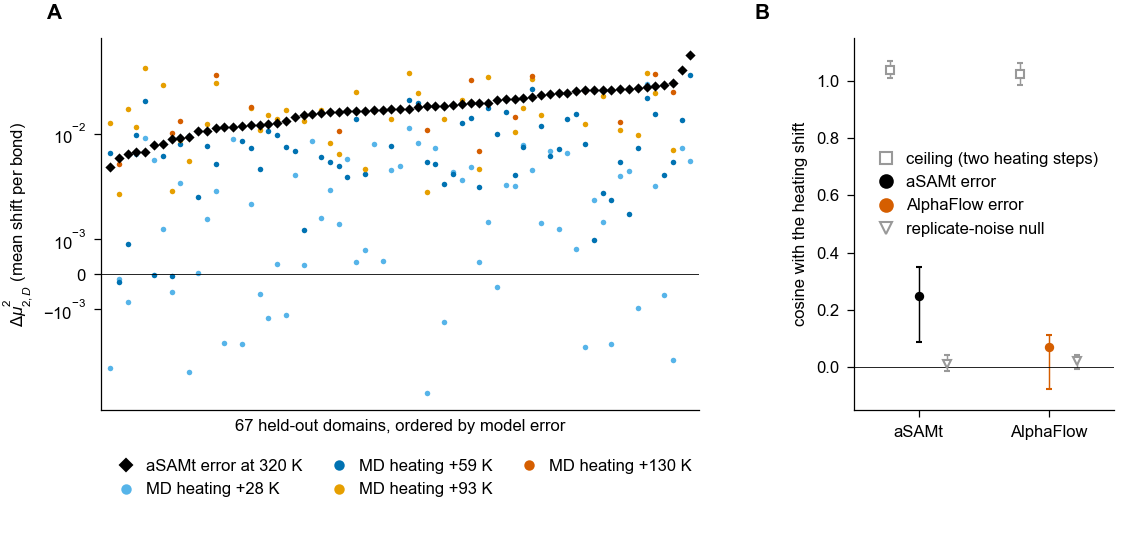
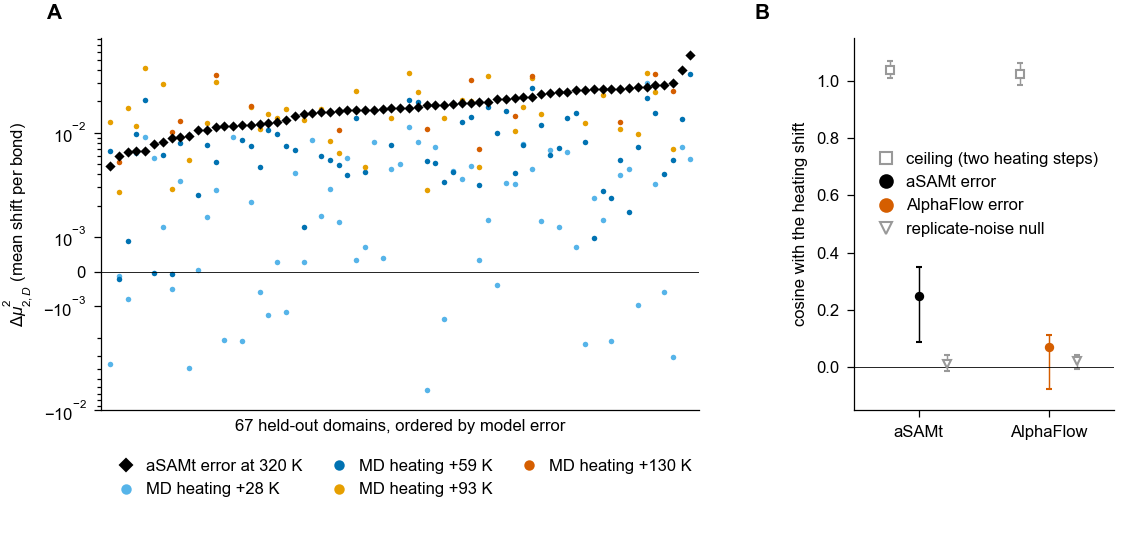
Figs 3, 4, 5, 7: markers per heating step, a key for the κ² bar, negative ticks, a separator (values unchanged); S1-S3 Table scripts: one timestamp style, 'withdrawn' label, column widths and frozen headers, numeric S2 medians, signed −0.000; PROVENANCE, MANIFEST

diff --git a/code/make_s1.py b/code/make_s1.py
@@ -17,6 +17,14 @@ FLAG = {'round36_p1_checklist_2026-10-20': 'Flagged: stamped 12:57:26 inside the
         'round36_sec6_2026-10-20': 'Reached Drive at 17:34:46; the 128-start alignment step of the static comparison began at 17:33:43 (machine clock) and branch-and-bound at 17:55:07; the predictions concern the certification.'}
 INFILE = {'round34': '2026-10-18 (date only, KST; written locally before running, appended unchanged)', 'round35': '2026-10-19 (date only, KST; before running)',
           'round37': '2026-10-19 (date only, KST; before running)', 'round36': '2026-10-19 (date only, KST; third version)'}
+def _ts(v):
+    """Display only (sheet A): one timestamp style, 'YYYY-MM-DD HH:MM:SS', with milliseconds where Drive gives them; the headers give the time zone.
+    Drive times come as '2026-10-17T12:47:55.465000+00:00' or '2026-10-17T22:27:15.130Z' (millisecond resolution, so the microseconds end in 000),
+    times before paths in the edit, removal and result-file columns as '2026-10-22T07:44:04', and some times inside entries end in ' UTC'. Any other string is left as it is."""
+    if not isinstance(v, str): return v
+    v = re.sub(r'\b(\d{4}-\d\d-\d\d)T(\d\d:\d\d:\d\d)\.(\d{3})(?:000)?(?:\+00:00|Z)', r'\1 \2.\3', v)
+    v = re.sub(r'\b(\d{4}-\d\d-\d\d)T(\d\d:\d\d:\d\d)(?![.\d+Z])', r'\1 \2', v)
+    return re.sub(r'^(\d{4}-\d\d-\d\d \d\d:\d\d:\d\d) UTC$', r'\1', v)
 def entries():
     t = pd.read_csv(f'{R}/results/_registration_evidence_2026-10-26/entries_timeline.tsv', sep='\t').fillna('')
     t = t[~t.entry.isin(['written', 'note'])].copy()
@@ -25,6 +33,8 @@ def entries():
     t['in_file_time'] = [INFILE.get(e, v if v else '— (record begun 2026-10-17 12:47:55)') for e, v in zip(t.entry, t.in_file_time)]
     t = t.rename(columns={'entry': 'Entry', 'first_seen_utc': 'First seen on Drive (UTC)', 'n_versions': 'Versions', 'change_times_utc': 'Later changes (UTC)',
                           'in_place_modified_paths': 'Values edited in place', 'removed_paths': 'Items removed', 'result_files_created_before_first_seen': 'Result files created earlier (Drive time)', 'in_file_time': 'Time written inside the entry (UTC; date-only values in KST)'})
+    for col in ('Time written inside the entry (UTC; date-only values in KST)', 'First seen on Drive (UTC)', 'Later changes (UTC)', 'Values edited in place', 'Items removed', 'Result files created earlier (Drive time)'):
+        t[col] = t[col].map(_ts)   # display only; values unchanged
     return t[['Entry', 'Time written inside the entry (UTC; date-only values in KST)', 'First seen on Drive (UTC)', 'Versions', 'Later changes (UTC)', 'Values edited in place', 'Items removed', 'Result files created earlier (Drive time)', 'Bears on this paper', 'Note']]
 ADDED = [  # file, written (UTC), analyses, what it fixed
  ('prereg_2026-10-28_addendum.json', None, 'r44_inv, r44_corr', 'Replicate- and frame-number audits (±10% criterion) and the decomposition of κ² into mean-shift and spread terms; alternative correspondences (TM-align, sequence alignments).'),
@@ -51,7 +61,7 @@ def added():
         A = json.load(open(f'{R}/results/{f}')); w = A.get('written') or next((v.get('written') for v in A.values() if isinstance(v, dict) and v.get('written')), '')
         rows.append({'File (date in KST)': f, 'Written (UTC, inside the file)': w, 'Analyses': an, 'What it fixed': what})
     return pd.DataFrame(rows)
-L_DC, L_SC, L_D, L_BD = 'decision criterion', 'sanity check', 'descriptive', 'by definition'
+L_DC, L_SC, L_D, L_BD, L_WD = 'decision criterion', 'sanity check', 'descriptive', 'by definition', 'withdrawn'
 PRED = [  # record, analysis, prediction, label, outcome, where reported
  ('round17_chaining (18 Oct 00:20 UTC)', 'Chaining test, 150 two-domain chains', '1 − TM-score normalized by the shorter chain violates the triangle inequality in > 80% of part–whole triples; D_TM with fixed d₀ and D_TM/√L̄ near 0.', L_DC, 'Held: 100% vs 0% and 0%.', 'R2, Fig 2B'),
  ('round17_chaining', 'Chaining test', 'Average linkage merges different folds under 1 − TM-score (shorter chain) but mostly not under D_TM/√L̄; single linkage merges under both.', L_DC, 'Held: average linkage 100% vs 15% [10%, 21%]; single linkage merged under both (100% and 78%), as predicted.', 'R2, Fig 2B'),
@@ -105,7 +115,7 @@ PRED = [  # record, analysis, prediction, label, outcome, where reported
  ('round41', 'g2 compression of d (added after the E7 result)', 'Reading rule: the step carrying more than half of the log compression names the mechanism (rotation per pair, saturation beyond 120°, or shifts of the correspondence).', L_D, 'Shifts of the correspondence 0.72 [0.68, 0.75]; saturation 0.29; rotation −0.015.', 'R5'),
  ('round41', 'g6 synthetic sequences', 'No violations for 1-Lipschitz gap costs (i)–(iii) (0 of 3,000 inequalities); violations expected for the controls (iv) 2|a| and (v) DTW, without refuting the lemma if absent.', L_DC, 'Held for (i)–(iii); the controls also had no violations under random edits.', 'S1 Fig (adversarial version)'),
  ('round41 g6_adv (21 Oct 09:25 UTC; added after g6)', 'g6 adversarial triples', '(i)–(iii) no violations; (iv) violations on generator A; (v) violations on generator B.', L_DC, 'Held: 0; 21.1% and 22.7%; 33.0% (65 undecided equalities in (iii) A).', 'R1, S1 Fig'),
- ('round42 (21 Oct 09:27 UTC)', 'Hinge-type test', 'Withdrawn before running (premise contradicted by a decomposition of explanatory variables).', '—', 'Withdrawn.', 'not discussed'),
+ ('round42 (21 Oct 09:27 UTC)', 'Hinge-type test', 'Withdrawn before running (premise contradicted by a decomposition of explanatory variables).', L_WD, 'Withdrawn.', 'not discussed'),
  ('round43 (22 Oct 08:54 UTC)', 'Post hoc sensitivities s1, s3, s4', 's1: if a cell changes regime under length matching or Kendall τ < 0.9, show both versions; s3: if C-2 and its intersection gate hold for all four network models, C-2 is not tied to the parameters; s4: interval of secondary 1, verdict unchanged.', L_D, 's1: no regime changed in the 13 cells with size-matched units, τ = 0.91 over 12 (matched version in S2 Table); s3: effect in all four (C-2 0.18–0.19); s4: [61.5%, 83.3%], includes 70%.', 'R4, R6, R8, S2 Table'),
  ('addendum (28 Oct 04:47 UTC)', 'r44_inv', 'Reduced/original ratio of superfamily medians in [0.9, 1.1] with 95% interval including 1, at +59 and +93 K, for 3 vs 5 replicates and 50 vs 100 frames.', L_DC, 'Replicate axis not met (+93 K 0.87 [0.45, 1.22]); frame axis met.', 'R3, Table 2'),
  ('addendum', 'r44_corr', 'P1: TM-align contains π̄ pairs more than sequence alignments; P2: TM-align C-1, C-2 lower bounds > 0; P3: sequence alignments lower bounds > 0 with C-1 below π̄.', L_DC, 'P1 held; P2 held; P3 not held (C-1 below π̄ held).', 'R8, Table 3'),
@@ -203,7 +213,7 @@ def build():
     notes = pd.DataFrame({'Note': [
         'Sheet A lists every entry of the first time-stamped record (prereg_2026-10-17.json: 64 entries after two header fields, the time the record was begun, 17 October 2026 12:47:55 UTC, and a note; 101 retained Drive versions and 46 snapshot copies) with the time written inside it, the time it first appeared on Drive, later changes, in-place edits, removals, result files that already existed when it appeared, and the two flagged cases. A result file listed as existing earlier belongs to a different analysis unless the Note says otherwise. Entries of an earlier exploratory stage (17–18 October) that this paper does not use are marked; their predictions and outcomes are in the deposited record.',
         'Sheet B lists the twelve records added from 28 October 2026 onward and their five corrections; file names carry the date in Korea Standard Time (UTC+9), times inside the files are UTC.',
-        'Sheet C lists the pre-specified predictions and decision rules of the analyses in this paper and of analyses specified in the records but not discussed in the text, with their outcomes. Labels: decision criterion (decides a stated reading), sanity check (expected to hold if the computation is correct), descriptive (reported without a decision), by definition (holds by construction).',
+        'Sheet C lists the pre-specified predictions and decision rules of the analyses in this paper and of analyses specified in the records but not discussed in the text, with their outcomes. Labels: decision criterion (decides a stated reading), sanity check (expected to hold if the computation is correct), descriptive (reported without a decision), by definition (holds by construction), withdrawn (the one test withdrawn before it was run).',
         'Sheet D classifies every analysis in the paper as pre-specified (in a record written before its result), added after a result (specified in a record after the result it follows and before it was computed) or in no record. Record times are the earliest Drive time of the entry or sub-entry (a retained version or a snapshot copy), unless marked (stamp), the time written inside it; for the records added from 28 October, the time written inside the file.',
         'Most entries hold their predictions and decision rules as text. The round36 entry (18 October 2026, 18:58:51 UTC) names a pre-specification document as the source of its sections 0–8 and holds the text of sections 7b and 7c; the record holds the full text of sections 0 and 3 from 19 October, 14:56:51. Sections 7d–7h of the document are amendments made from 19 October onward; each was entered in the record when it was made (sheet A). For sections 1, 1b and 7, the earliest evidence on Drive is the checksum of the analysis script that implements their decision rules (r38_b6.py, r38_p3.py, r38_p1.py), entered before the decision statistics were computed (for r38_p1.py, its pair-counting and mean-point steps had started up to 2.5 minutes earlier; see the Note of round36_p1_code); the scripts contain the rules and are deposited with matching checksums, and their Drive copies were last modified before those entries. For section 2 (natural insertion–deletion cell), the entry round36_r10a (20 October, 16:55:13 on Drive; stamp inside 16:43:20) holds the decision criteria of predictions 2 and 3 as text and the script checksum, before the run (19:16). The document is deposited too, but its earlier versions are dated only by local file times.',
         "In sheets C and D, R1–R8 are the eight Results sections in order (R1, Framed chains and an edit-distance metric across lengths; R2, TM-align's objective as an edit-distance metric; R3, Energy statistics for ensembles and their calibration; R4, Ensembles of different sequences on the same statistic; R5, Bond-level comparison once correspondence and rotation are fixed; R6, Errors of a temperature-conditioned generative model; R7, Thermophilic and mesophilic homologs at equal temperature; R8, Sequence identity and shared-bond fluctuation profiles). Labels such as R3′, R10a′, E1–E7 or P1 in the analysis names are the names used in the records, not section numbers.",

diff --git a/code/make_figs.py b/code/make_figs.py
@@ -23,6 +23,7 @@ def axin(fig, l, b, w, h):
 OI = dict(black='#000000', orange='#E69F00', sky='#56B4E9', green='#009E73', yellow='#F0E442', blue='#0072B2', red='#D55E00', purple='#CC79A7', grey='#999999')
 STEP = {'348': '+28 K', '379': '+59 K', '413': '+93 K', '450': '+130 K'}
 SCOL = {'348': OI['sky'], '379': OI['blue'], '413': OI['orange'], '450': OI['red']}
+SMK = {'348': 'o', '379': 's', '413': '^', '450': 'D'}   # marker per heating step (Fig 3B, 3C): +93 K and +130 K differ in shape as well as colour
 
 def panel(ax, s, x=-0.14, y=1.04):
     ax.text(x, y, s, transform=ax.transAxes, fontsize=10, fontweight='bold', va='bottom', ha='left')
@@ -104,7 +105,7 @@ def fig3():
             if c and c.get('D') and c['D'].get('D2') is not None: recs[tt].append((d['ne'], c['D']['D2']))
     for tt in T:
         a = np.array(recs[tt], float); n, y = a[:, 0], a[:, 1]; pos = y > 0
-        ax.scatter(n[pos], y[pos], s=3, color=SCOL[tt], alpha=0.5, lw=0)
+        ax.scatter(n[pos], y[pos], s=7, marker=SMK[tt], color=SCOL[tt], alpha=0.7, lw=0)
         al = E1['steps'][tt]['irls']['alpha']; ga = E1['steps'][tt]['irls']['gamma']
         w = n ** (-ga); x = n ** al; cfit = (w * y * x).sum() / (w * x * x).sum(); fits[tt] = (al, ga, cfit, len(n), int((~pos).sum()))
         g = np.linspace(n.min(), n.max(), 50); ax.plot(g, cfit * g ** al, color=SCOL[tt], lw=1)
@@ -113,7 +114,7 @@ def fig3():
     ax = fig.add_subplot(gs[2]); panel(ax, 'C', x=-0.36, y=1.12); pw = {}
     for tt in T:
         rr = sorted([(int(r['n']), r['p_detect']) for r in E3['rows'] if r['window'] == 'half' and r['method'] == '나' and str(r['T']) == tt and str(r['n']).isdigit()])
-        pw[tt] = rr; ax.plot([a for a, _ in rr], [b for _, b in rr], 'o-', color=SCOL[tt], ms=3, label=STEP[tt])
+        pw[tt] = rr; ax.plot([a for a, _ in rr], [b for _, b in rr], '-', marker=SMK[tt], color=SCOL[tt], ms=3.5, label=STEP[tt])   # legend keys the markers of B too
     ax.set_xscale('log'); ax.set_xlabel('number of domains'); ax.set_ylabel('probability of detection'); ax.set_ylim(0, 1.03); ax.axhline(0.8, color=OI['grey'], lw=0.5, ls='--')
     ax.legend(frameon=False, loc='lower center', bbox_to_anchor=(0.5, 1.0), ncol=2, handlelength=1.5, columnspacing=1.0)
     return save(fig, 'Fig3'), dict(A=vals, R0=b, fits=fits, power=pw)
@@ -140,7 +141,8 @@ def fig4():
     h1, l1 = ax.get_legend_handles_labels(); h2, l2 = ax2.get_legend_handles_labels(); ax.legend(h1 + h2, l1 + l2, frameon=False, loc='upper center', bbox_to_anchor=(0.5, -0.19), handletextpad=0.2)
     # B: kappa per cell
     s1 = J('r43_sens.json')['s1']['cells']; order = [k for k in CELL_EN if k in s1]
-    ax = axin(fig, 5.1, 1.3, 2.3, 3.2); panel(ax, 'B', x=-0.86, y=1.0); y = np.arange(len(order))[::-1]; kap = {}
+    ax = axin(fig, 5.1, 1.3, 2.3, 3.2); panel(ax, 'B', x=-0.86, y=1.0); y = np.arange(len(order))[::-1].astype(float); kap = {}
+    y[order.index('7c AlphaFlow') + 1:] -= 0.8   # a free line under the AlphaFlow row for the labels of its κ² bar
     for yi, k in zip(y, order):
         e, lo, hi = ci(s1[k]['ratio']); kap[CELL_EN[k].replace('\n', ' ')] = (e, lo, hi)
         col = OI['red'] if 'AlphaFlow' in CELL_EN[k] else OI['blue'] if 'Homolog' in CELL_EN[k] or 'insertion' in CELL_EN[k] else OI['black']
@@ -148,11 +150,15 @@ def fig4():
     ax.set_yticks(y); ax.set_yticklabels([CELL_EN[k] for k in order], linespacing=0.95); ax.set_xscale('log'); ax.set_xlim(0.05, 3)
     ax.axvspan(0.5, 2, color=OI['yellow'], alpha=0.25, lw=0); ax.axvline(1, color='black', lw=0.6, ls='--')
     ax.text(0.06, y[0] + 0.9, 'near', fontsize=FS, color='#555555'); ax.text(0.95, y[0] + 0.9, 'crossing', fontsize=FS, color='#555555', ha='right'); ax.text(2.45, y[0] + 0.9, 'far', fontsize=FS, color='#555555', ha='center')
-    ax.set_xlabel(r'$\kappa = \sqrt{(C/\bar w)^2 - 1}$'); ax.set_ylim(-0.8, len(order) + 0.3)
+    ax.set_xlabel(r'$\kappa = \sqrt{(C/\bar w)^2 - 1}$'); ax.set_ylim(y[-1] - 0.8, y[0] + 1.3)   # same margins as (−0.8, len + 0.3) before, plus the free line
     sp = json.load(open(f'{R}/derived/r44/split.json'))['cells']['7c AlphaFlow 대 MD 320|full']; sh = sp['share_mean']['est']
-    ya = y[order.index('7c AlphaFlow')]; yfr = (ya + 0.8) / (len(order) + 1.1); ins = ax.inset_axes([0.04, yfr - 0.017, 0.3, 0.034], transform=ax.transAxes)
-    ins.barh([0], [sh], color=OI['red'], height=1); ins.barh([0], [1 - sh], left=[sh], color=OI['orange'], height=1); ins.set_xlim(0, 1); ins.axis('off')
-    ins.text(0, -0.5, r'$\kappa^2$' + f': shift {sh:.0%}, spread {1 - sh:.0%}', ha='left', va='top', fontsize=FS)
+    ya = y[order.index('7c AlphaFlow')]; ty = ax.get_yaxis_transform()   # x in axes fraction, y in data units
+    # bar on the AlphaFlow row, in the empty 'near' part left of the crossing band (band starts at axes fraction 0.562); its labels in the free line below, coloured as the segments
+    ins = ax.inset_axes([0.06, ya - 0.25, 0.485, 0.5], transform=ty)
+    ins.barh([0], [sh], color=OI['red'], height=1); ins.barh([0], [1 - sh], left=[sh], color=OI['orange'], height=1); ins.set_xlim(0, 1); ins.set_ylim(-0.5, 0.5); ins.axis('off')
+    ax.text(0.006, ya, r'$\kappa^2$', transform=ty, ha='left', va='center', fontsize=FS)
+    ax.text(0.06, ya - 0.75, f'shift {sh:.0%}', transform=ty, ha='left', va='center', fontsize=FS, color=OI['red'])
+    ax.text(0.545, ya - 0.75, f'spread {1 - sh:.0%}', transform=ty, ha='right', va='center', fontsize=FS, color=OI['orange'])
     return save(fig, 'Fig4'), dict(n_pairs=len(P), n_w2=int(P.W2.notna().sum()), n_same=int(P.same.sum()), kappa=kap, alphaflow_shift_share=sh)
 
 # ---------------- Fig 5 ----------------
@@ -165,9 +171,10 @@ def fig5():
         for tt, v in r['resp'].items():
             if v is not None: ax.scatter(i, v, s=7, color=SCOL[tt], lw=0, zorder=2)
         ax.scatter(i, r['model_dmu'], s=12, marker='D', color='black', lw=0, zorder=3)
-    ax.set_yscale('symlog', linthresh=1e-3, linscale=0.3); ax.set_xlim(-1, len(rows))
+    ax.set_yscale('symlog', linthresh=1e-3, linscale=0.3, subs=np.arange(2, 10)); ax.yaxis.set_minor_formatter(matplotlib.ticker.NullFormatter()); ax.set_xlim(-1, len(rows))   # unlabelled minor ticks at 2–9 × 10^k
     ax.set_xticks([]); ax.set_xlabel(f'{len(rows)} held-out domains, ordered by model error'); ax.set_ylabel(r'$\Delta\mu^2_{2,D}$' + ' (mean shift per bond)')
     ax.axhline(0, color='black', lw=0.4)
+    ax.set_ylim(min(ax.get_ylim()[0], -1e-2), None)   # lower limit at −10⁻² (or lower if the data are) so the negative side has a labelled decade like the positive side
     hs = [Line2D([], [], marker='D', ls='', color='black', ms=4, label='aSAMt error at 320 K')] + [Line2D([], [], marker='o', ls='', color=SCOL[tt], ms=4, label=f'MD heating {STEP[tt]}') for tt in SCOL]
     ax.legend(handles=hs, frameon=False, loc='upper center', ncol=3, bbox_to_anchor=(0.5, -0.09), columnspacing=1.2, handletextpad=0.2)
     ax = fig.add_subplot(gs[1]); panel(ax, 'B', x=-0.38); out = {}
@@ -227,7 +234,7 @@ def fig7():
         ax.text(1.03, yi, f'{e:.3f} [{lo:.3f}, {hi:.3f}]'.replace('-', '−'), va='center', fontsize=FS, transform=ax.get_yaxis_transform())
     ax.axvline(0, color='black', lw=0.5); ax.set_yticks(y); ax.set_yticklabels([i[0] for i in items]); ax.set_xlim(-0.1, 0.46); ax.set_ylim(-0.6, len(items) - 0.4)
     ax.set_xlabel('partial Spearman correlation of profile similarity ' + r'$r_{\rm dyn}$' + '\nwith sequence identity')
-    for yy in (11.5, 9.5, 6.5): ax.axhline(yy, color=OI['grey'], lw=0.4, ls=':')
+    for yy in (11.5, 9.5, 6.5, 0.5): ax.axhline(yy, color=OI['grey'], lw=0.4, ls=':')   # 0.5 separates the bond-direction row from the other-correspondence group
     ax.legend(handles=[Patch(color=col['first'], label='first homolog study (shorter domains)'), Patch(color=col['main'], label='confirmatory set'),
                        Patch(color=col['rob'], label='confirmatory set, further controls'), Patch(color=col['corr'], label='confirmatory set, other correspondences')],
               frameon=False, loc='upper center', bbox_to_anchor=(0.2, -0.2), ncol=2, columnspacing=1.5)

diff --git a/code/make_tables.py b/code/make_tables.py
@@ -7,7 +7,7 @@ def eci(d, k='est', c='ci95', small=False):
     if d is None: return ''
     lo, hi = (d[c] if c in d else (d['lo'], d['hi']))
     nd = 4 if (small and abs(d[k]) < 0.01) else 3
-    fm = lambda v: f'{v:.{nd}f}'.replace('-0.000', '0.000') if abs(v) < 0.5 * 10 ** -nd else f'{v:.{nd}f}'
+    fm = lambda v: f'{v:.{nd}f}' if v else f'{0:.{nd}f}'   # a value in (−0.5, 0) × 10^−nd keeps its sign (−0.000; write() turns - into −); exact zero, also −0.0, prints 0.000
     return f'{fm(d[k])} [{fm(lo)}, {fm(hi)}]'
 def eck(d):
     if d is None: return ''
@@ -79,12 +79,30 @@ def s3():
             "(records of 29 October 2026 16:34 UTC and 30 October 2026 07:30 UTC).")
     return df, note
 
+NUMERIC = ('Median n̄ (all)', 'Median n̄ (matched)')   # S2 columns stored as numbers in the xlsx (the csv keeps the same text as before)
+def fmt(path):
+    """Column widths, wrapped text, bold frozen header (the same as fmt() in make_s1.py)."""
+    from openpyxl import load_workbook
+    from openpyxl.styles import Alignment, Font
+    wb = load_workbook(path)
+    for ws in wb.worksheets:
+        for col in ws.columns:
+            n = max(len(str(c.value)) if c.value is not None else 0 for c in col)
+            ws.column_dimensions[col[0].column_letter].width = min(max(10, n * 0.9 + 2), 70 if ws.title not in ('Notes', 'Note') else 140)
+            for c in col: c.alignment = Alignment(wrap_text=True, vertical='top')
+        for c in ws[1]: c.font = Font(bold=True)
+        ws.freeze_panes = 'A2'
+    wb.save(path)
+
 def write(name, df, note):
     num = [c for c in df.columns if c not in ('Part', 'Analysis', 'Cell')]
     df = df.copy(); df[num] = df[num].apply(lambda col: col.map(lambda v: re.sub(r'(?<![\w])-(?=\d)', '−', v) if isinstance(v, str) else v))
     fmtnum = lambda v: '' if v is None or (isinstance(v, float) and np.isnan(v)) else (f'{round(v, 4):g}' if isinstance(v, (float, np.floating)) else v)
     df[num] = df[num].apply(lambda col: col.map(fmtnum)).astype(object)
+    xl = df.copy()
+    for c in [c for c in NUMERIC if c in xl.columns]: xl[c] = pd.to_numeric(xl[c].map(lambda v: np.nan if v == '' else v))   # same values as the text; any other text raises
     with pd.ExcelWriter(f'{OUT}/{name}.xlsx') as xw:
-        df.to_excel(xw, index=False, sheet_name=name); pd.DataFrame({'Note': [note]}).to_excel(xw, index=False, sheet_name='Note')
+        xl.to_excel(xw, index=False, sheet_name=name); pd.DataFrame({'Note': [note]}).to_excel(xw, index=False, sheet_name='Note')
+    fmt(f'{OUT}/{name}.xlsx')
     df.to_csv(f'{OUT}/{name}.csv', index=False)
     return df

diff --git a/docs/PROVENANCE.md b/docs/PROVENANCE.md
@@ -91,9 +91,9 @@ The md5 of every file in the repository is in `MANIFEST.md5` (`md5sum -c MANIFES
 | `code/ladder_model_error_folded.py` | `0c2d4e91bfcd06eca6c07152d0e9debb` | U |  |
 | `code/ladder_temp_single.py` | `961d2f27c0406c9667fabb03b2d5b142` | U |  |
 | `code/ladder_temp_single_v2.py` | `6420c51e5aeb3a69c51aafa1711a261d` | U |  |
-| `code/make_figs.py` | `40a77f390f7e3f58ecc78651ec03cea8` | U | figure script, last run on Colab 2026-11-01 (Arial, text 8 pt or larger; Fig 4 redrawn 16:57 UTC with more margin, values unchanged); reads stored results only; in no record |
-| `code/make_s1.py` | `655ee8ce86dd400383a5039e66311e2f` | U | S1 Table script, run on Colab 2026-10-31 and again 2026-11-01 16:57 UTC (percentage intervals written with % on both bounds); in no record |
-| `code/make_tables.py` | `ba796a20e7081c2eb54c238d705d4555` | U | S2 and S3 Table script, run on Colab 2026-10-31; in no record |
+| `code/make_figs.py` | `d77cceb65c81eeff84c8342ba1babc63` | U | figure script, last run on Colab 2026-11-01 (Arial, text 8 pt or larger; Fig 4 redrawn 16:57 UTC with more margin; Figs 3, 4, 5 and 7 redrawn 17:45 UTC: markers per heating step in Fig 3, a key for the κ² bar in Fig 4B, negative ticks in Fig 5A, a separator in Fig 7; values unchanged); reads stored results only; in no record |
+| `code/make_s1.py` | `591a9e694196f86412afadfa13ab3d71` | U | S1 Table script, run on Colab 2026-10-31 and again 2026-11-01 (16:57 UTC: percentage intervals with % on both bounds; 17:45 UTC: one timestamp style in sheet A and the label "withdrawn"); in no record |
+| `code/make_tables.py` | `2859045d1608df725099048af4a9b7e3` | U | S2 and S3 Table script, run on Colab 2026-10-31 and again 2026-11-01 17:45 UTC (column widths and frozen headers, numeric median columns in S2, a lower bound of −0.000 in S3 now keeps its sign); in no record |
 | `code/mdcath_5T_extract.py` | `a77709c6edfef1e21207070b2c959b69` | U |  |
 | `code/mdcath_5T_folded.py` | `6c65c299322b4cdbf6ae447c51481fa4` | U |  |
 | `code/mdcath_spread.py` | `46c7a1ea713c6ef267409b1c38067505` | U |  |
